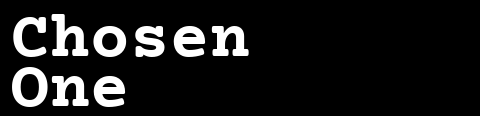
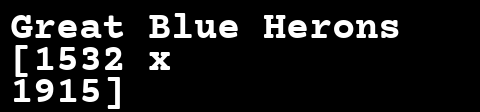
added date and ready for takeoff!

Changed region(s): [[0.0, 0.1071, 0.8438, 0.9911]]

diff --git a/py/main.py b/py/main.py
@@ -20,6 +20,7 @@ def main(index: int = None):
     # save info as images of size ___
     daily_info.get_weather_icon(weather, (50, 50))
     daily_info.get_temp_img(temp, 50)
+    daily_info.get_date_img(50)
 
     for candidate_post in posts:
         if best_reddit.recently_viewed(candidate_post['id']):
@@ -58,6 +59,7 @@ def create_screen_png(screen_size: tuple, post):
 
         process_image.overlay_image('icon.png', (screen_size[0] - 60, screen_size[1] - 60))
         process_image.overlay_image('text.png', (screen_size[0] - 180, screen_size[1] - 60))
+        process_image.overlay_image('date.png', (10, screen_size[1]-60))
         process_image.overlay_image('title.png', (0, 0))
 
         return True
@@ -74,12 +76,9 @@ def create_screen_png(screen_size: tuple, post):
             return False
 
 def valid_image(index: int = None):
-    tries = 0 # added so if there's no compatible images in a subreddit, it just fails
-    while True:
-        if main(index) or tries > 15:
-            tries = 0
+    for i in range(15): # only tries 15 times, otherwise just fails (likely no valid images in subreddit)
+        if main(index):
             return
-        tries += 1
 
 def loop_random(times):
     for i in range(times):
@@ -95,16 +94,10 @@ def loop_all():
         valid_image(i)
         time.sleep(5)
 
-def infinite_cycle(refresh_rate: int):
-    while True:
-        valid_image
-        time.sleep(refresh_rate)
-
 if __name__ == "__main__":
     if sys.platform == "win32":
         asyncio.set_event_loop_policy(asyncio.WindowsSelectorEventLoopPolicy())
-
-    #loop_all()
-    loop_random(10)
-    # hours_between_refresh = 3
-    # infinite_cycle(60*60*hours_between_refresh)
+        #loop_all()
+        loop_random(10)
+    elif sys.platform == "linux":
+        valid_image() # just get one. cron job will automatically re-run the script 

diff --git a/py/daily_info.py b/py/daily_info.py
@@ -1,3 +1,4 @@
+import datetime
 import filer
 
 import python_weather
@@ -50,9 +51,18 @@ def get_temp_img(temperature: int, height: int): # width is dynamically set
     img = Image.new('RGB', (mono_font.getsize('xxxx')[0], height), 0)
 
     graphics = ImageDraw.Draw(img)
-    graphics.text((0, 5), str(temperature) + '°F', fill=(255,255,255), font=mono_font)
+    graphics.text((0, 5), str(temperature) + '°F', fill=(255, 255, 255), font=mono_font)
 
     img.save(filer.base() + 'text.png')
 
 def get_date_img(height: int):
-    pass
+    date = datetime.datetime.now().strftime("%m/%d")
+
+    mono_font = ImageFont.truetype(filer.base() + 'data/Courier Prime Bold.ttf', size=height)
+
+    img = Image.new('RGB', (mono_font.getsize('xxxxx')[0], height), 0)
+
+    graphics = ImageDraw.Draw(img)
+    graphics.text((0, 5), date, fill=(255, 255, 255), font=mono_font)
+
+    img.save(filer.base() + 'date.png')
